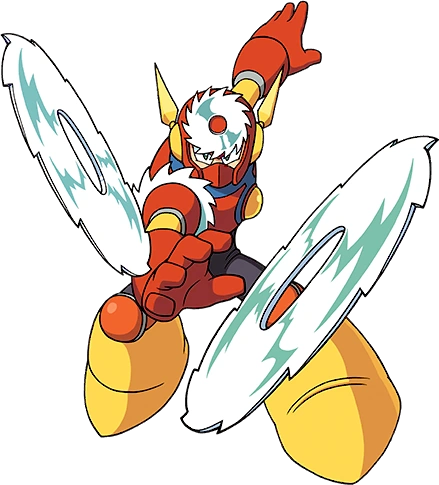
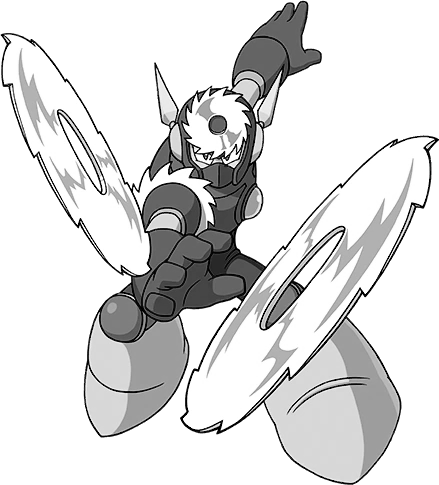
feat: artwork thumbnails, tier list profile links, gray mmii art
- Home page tiles load 200px-tall WebP thumbnails from art/thumbs
  (28.8 MB -> 1.4 MB); `npm run thumbs` regenerates them
- Each tier list card has an "i" link to its robot master profile
- Mega Man II artwork is grayscale to set it apart from the identical
  Mega Man 2 and 3 artwork; `npm run grayscale` applies it to art
  marked "grayscale": true in art/sources.json

diff --git a/tests/unit/data.test.js b/tests/unit/data.test.js
@@ -7,7 +7,7 @@ import { GAMES } from "../../data/games.js";
 import { SPRITES } from "../../data/sprites.js";
 import { COLOR_NAMES } from "../../data/color-names.js";
 import { AXES } from "../../data/axes.js";
-import { BADGE_ICONS, ICON_STAR, ICON_PLAY, ICON_PAUSE } from "../../data/icons.js";
+import { BADGE_ICONS, ICON_STAR, ICON_PLAY, ICON_PAUSE, ICON_INFO } from "../../data/icons.js";
 
 const exists = path => access(new URL(path, ROOT)).then(() => true, () => false);
 const trackNamed = (gameId, name) => GAMES.find(g => g.id === gameId)?.tracks.find(t => t.name === name);
@@ -147,6 +147,30 @@ describe("icons", () => {
     }
   });
   test("are SVGs hidden from screen readers", () => {
-    for (const icon of [ICON_STAR, ICON_PLAY, ICON_PAUSE]) assert.match(icon, /^<svg [^>]*aria-hidden="true"/);
+    for (const icon of [ICON_STAR, ICON_PLAY, ICON_PAUSE, ICON_INFO]) assert.match(icon, /^<svg [^>]*aria-hidden="true"/);
+  });
+});
+
+describe("artwork thumbnails", () => {
+  test("each picture in art/sources.json has one in art/thumbs, at most 200px tall and 400px wide (npm run thumbs)", async () => {
+    const sources = JSON.parse(await readFile(new URL("art/sources.json", ROOT), "utf8"));
+    for (const { file } of sources) {
+      const thumb = "art/thumbs/" + file.replace(/\.\w+$/, ".webp");
+      assert.ok(await exists(thumb), `no thumbnail for ${file}: run npm run thumbs`);
+      const { w, h } = imageSize(await readFile(new URL(thumb, ROOT)));
+      assert.ok(h <= 200 && w <= 400 && h > 0 && w > 0, `${thumb} is ${w}x${h}`);
+    }
+  });
+});
+
+describe("artwork", () => {
+  // Mega Man II reuses its robot masters' Mega Man 2 and 3 artwork, so its copies are gray (npm run grayscale)
+  test("Mega Man II's pictures are marked grayscale, and none is the same file as another game's", async () => {
+    const sources = JSON.parse(await readFile(new URL("art/sources.json", ROOT), "utf8"));
+    const bytes = new Map(await Promise.all(sources.map(async a => [a.file, await readFile(new URL("art/" + a.file, ROOT))])));
+    for (const a of sources.filter(a => a.game === "mmii")) {
+      assert.equal(a.grayscale, true, a.file);
+      for (const b of sources.filter(b => b.game !== "mmii")) assert.ok(!bytes.get(a.file).equals(bytes.get(b.file)), `${a.file} is ${b.file}`);
+    }
   });
 });

diff --git a/src/tiers.js b/src/tiers.js
@@ -3,7 +3,7 @@
 import { RELEASE_ORDER, tableTitle, trackKey, trackOf } from "./model.js";
 import { GRADES, METRICS, RATINGS, gradeOf, rangeOf, totalOf } from "./grades.js";
 import { spriteOf, sprImg } from "./draw.js";
-import { ICON_PLAY, ICON_STOP } from "../data/icons.js";
+import { ICON_PLAY, ICON_STOP, ICON_INFO } from "../data/icons.js";
 import { inkOn } from "./colors.js";
 import { liveAudio } from "./live.js";
 import { $, esc, plural, setupTheme, track } from "./util.js";
@@ -27,10 +27,12 @@ function tile({ t, g, ratings, total }) {
     <span class="tl-name">${esc(t.name)}</span>
     <span class="tl-game" title="${esc(g.title)}">MM ${esc(tableTitle(g))}</span>
     ${scores}`;
+  // The profile link sits beside the tile rather than in it, since a link can't go inside the play button
+  const info = `<a class="tl-info" href="robot-master.html#${trackKey(t)}" aria-label="${esc(t.name)} profile" title="Profile">${ICON_INFO}</a>`;
   return t.audio
     ? `<li data-game="${g.id}"><button type="button" class="tl-tile" data-play="${trackKey(t)}" aria-pressed="false" aria-label="Play ${esc(label)}"${t.vals ? ` style="--track-ink:${inkOn(t.vals)}"` : ""}>
-        <span class="tl-pi"><span class="i-play">${ICON_PLAY}</span><span class="i-stop">${ICON_STOP}</span></span>${body}</button></li>`
-    : `<li data-game="${g.id}"><div class="tl-tile" role="group" aria-label="${esc(label)}">${body}</div></li>`;
+        <span class="tl-pi"><span class="i-play">${ICON_PLAY}</span><span class="i-stop">${ICON_STOP}</span></span>${body}</button>${info}</li>`
+    : `<li data-game="${g.id}"><div class="tl-tile" role="group" aria-label="${esc(label)}">${body}</div>${info}</li>`;
 }
 
 // ---- The player ----

diff --git a/tests/e2e/tiers.spec.js b/tests/e2e/tiers.spec.js
@@ -164,6 +164,19 @@ test.describe("tier list", () => {
     await expect(page.locator('[data-tier="none"] button.tl-tile').filter({ hasText: "Twinkle Girl" })).toHaveCount(0);
   });
 
+  test("each tile's i links to its robot master's profile, without playing its track", async ({ page }) => {
+    await openTiers(page);
+    const tiles = page.locator(".tl-tiles > li");
+    await expect(tiles.locator(".tl-info")).toHaveCount(await tiles.count());
+    const twinkle = page.locator('[data-tier="none"] li').filter({ hasText: "Twinkle Girl" }).locator(".tl-info");
+    await expect(twinkle).toHaveAttribute("href", /^robot-master\.html#mmdo\.\d+$/);
+    const metal = page.locator('[data-tier="S+"] li').filter({ hasText: "Metal Man" }).locator(".tl-info");
+    await expect(metal).toHaveAccessibleName("Metal Man profile");
+    await metal.click();
+    await expect(page).toHaveURL(/\/robot-master\.html#mm2\.0$/);
+    await expect(page.locator(".rm-hero h1")).toHaveText("Metal Man");
+  });
+
   test("gives S+ a white block, with its total on its own", async ({ page }) => {
     await openTiers(page);
     const letter = page.locator('[data-tier="S+"] .tl-letter');

diff --git a/src/art.js b/src/art.js
@@ -15,11 +15,15 @@ async function loadArt() {
 
 export const ART = await loadArt();
 
-// The picture as an <img> with class rm-art (plus rm-sprite for a sprite), or "" when there's neither
-export function portrait(t, cls = "", lazy = false) {
+// The small version of a picture, made by scripts/make-thumbs.mjs: art/thumbs/mm5-gyroman.webp for art/mm5-gyroman.png
+export const thumbOf = src => src.replace(/^art\/(.+)\.\w+$/, "art/thumbs/$1.webp");
+
+// The picture as an <img> with class rm-art (plus rm-sprite for a sprite), or "" when there's neither. thumb uses the
+// artwork's small version, for the home page's tiles (at most 100px tall).
+export function portrait(t, cls = "", lazy = false, thumb = false) {
   const load = lazy ? ' loading="lazy" decoding="async"' : "";
   const art = ART.get(artKey(t));
-  if (art) return `<img class="rm-art ${cls}" src="${art}" alt=""${load}>`;
+  if (art) return `<img class="rm-art ${cls}" src="${thumb ? thumbOf(art) : art}" alt=""${load}>`;
   const s = SPRITES[artKey(t)];
   return s ? `<img class="rm-art rm-sprite ${cls}" src="${s.src}" width="${s.w}" height="${s.h}" alt=""${load}>` : "";
 }

diff --git a/styles.css b/styles.css
@@ -2982,6 +2982,43 @@ button.tl-tile[aria-pressed="true"] .tl-pi {
   border-color: var(--ink)
 }
 
+/* An "i" in the opposite corner from the play icon, linking to the robot master's profile. It's the tile's sibling
+   (a link can't go inside the play button), placed over the tile from the list item. */
+.tl-tiles > li {
+  position: relative
+}
+
+.tl-info {
+  position: absolute;
+  top: 12px;
+  left: 6px;
+  z-index: 1;
+  width: 20px;
+  height: 20px;
+  box-sizing: border-box;
+  display: grid;
+  place-items: center;
+  border: 1px solid var(--line);
+  background: var(--surface);
+  color: var(--muted)
+}
+
+.tl-info svg {
+  width: 10px;
+  height: 10px;
+  display: block
+}
+
+.tl-info:hover {
+  color: var(--ink);
+  border-color: var(--muted)
+}
+
+.tl-info:focus-visible {
+  outline: 2px solid var(--b);
+  outline-offset: 1px
+}
+
 /* The track's color from the color project */
 .tl-swatch {
   align-self: stretch;

diff --git a/tests/e2e/home.spec.js b/tests/e2e/home.spec.js
@@ -12,6 +12,16 @@ test.describe("home page", () => {
     await expect(page.locator("#hmCount")).toHaveText(`${TOTAL} robot masters across ${GAMES.length} games`);
   });
 
+  test("loads the small artwork for its tiles, and the profile the full size", async ({ page }) => {
+    await page.goto("/");
+    const img = page.locator("#game-mm5 .rm-tile", { hasText: "Gyro Man" }).locator("img");
+    await expect(img).toHaveAttribute("src", "art/thumbs/mm5-gyroman.webp");
+    await img.scrollIntoViewIfNeeded();
+    await expect.poll(() => img.evaluate(i => i.complete && i.naturalHeight)).toBe(200);
+    await page.goto("/robot-master.html#mm5.3");
+    await expect(page.locator(".rm-hero-art img")).toHaveAttribute("src", "art/mm5-gyroman.png");
+  });
+
   // Metal Man rather than Gyro Man, who the profile shows by default
   test("links each robot master to its profile", async ({ page }) => {
     await page.goto("/");

diff --git a/src/home.js b/src/home.js
@@ -9,7 +9,7 @@ function tile(t) {
   const label = [t.name, t.cname, gr && `grade ${gr.letter}`].filter(Boolean).join(", ");
   return `<a class="rm-tile${gem(t) ? " is-gem" : ""}" href="robot-master.html#${trackKey(t)}" style="--c:${t.color || "var(--grid)"}"
       data-name="${esc(t.name.toLowerCase())}" aria-label="${esc(label)}">
-    <span class="rm-tile-art">${portrait(t, "", true)}</span>
+    <span class="rm-tile-art">${portrait(t, "", true, true)}</span>
     <span class="rm-tile-name">${esc(t.name)}</span>
     <span class="rm-tile-meta">${t.cname ? esc(t.cname) : "Unscored"}${gr ? ` · <b class="rm-mini tl-${gr.letter}">${gr.letter}</b>` : ""}</span>
   </a>`;

diff --git a/data/icons.js b/data/icons.js
@@ -19,3 +19,4 @@ export const ICON_STAR = `<svg viewBox="0 0 12 12" aria-hidden="true" shape-rend
 export const ICON_PLAY = `<svg viewBox="0 0 12 12" aria-hidden="true"><path d="M3 1.5v9l7.5-4.5z" fill="currentColor"/></svg>`;
 export const ICON_STOP = `<svg viewBox="0 0 12 12" aria-hidden="true"><path d="M2 2h8v8H2z" fill="currentColor"/></svg>`;
 export const ICON_PAUSE =`<svg viewBox="0 0 12 12" aria-hidden="true"><path d="M2.5 1.5h2.5v9H2.5zM7 1.5h2.5v9H7z" fill="currentColor"/></svg>`;
+export const ICON_INFO = `<svg viewBox="0 0 12 12" aria-hidden="true" shape-rendering="crispEdges"><path d="M5 1h2v2H5zM4 4h3v6h1v1H4v-1h1V5H4z" fill="currentColor"/></svg>`;
